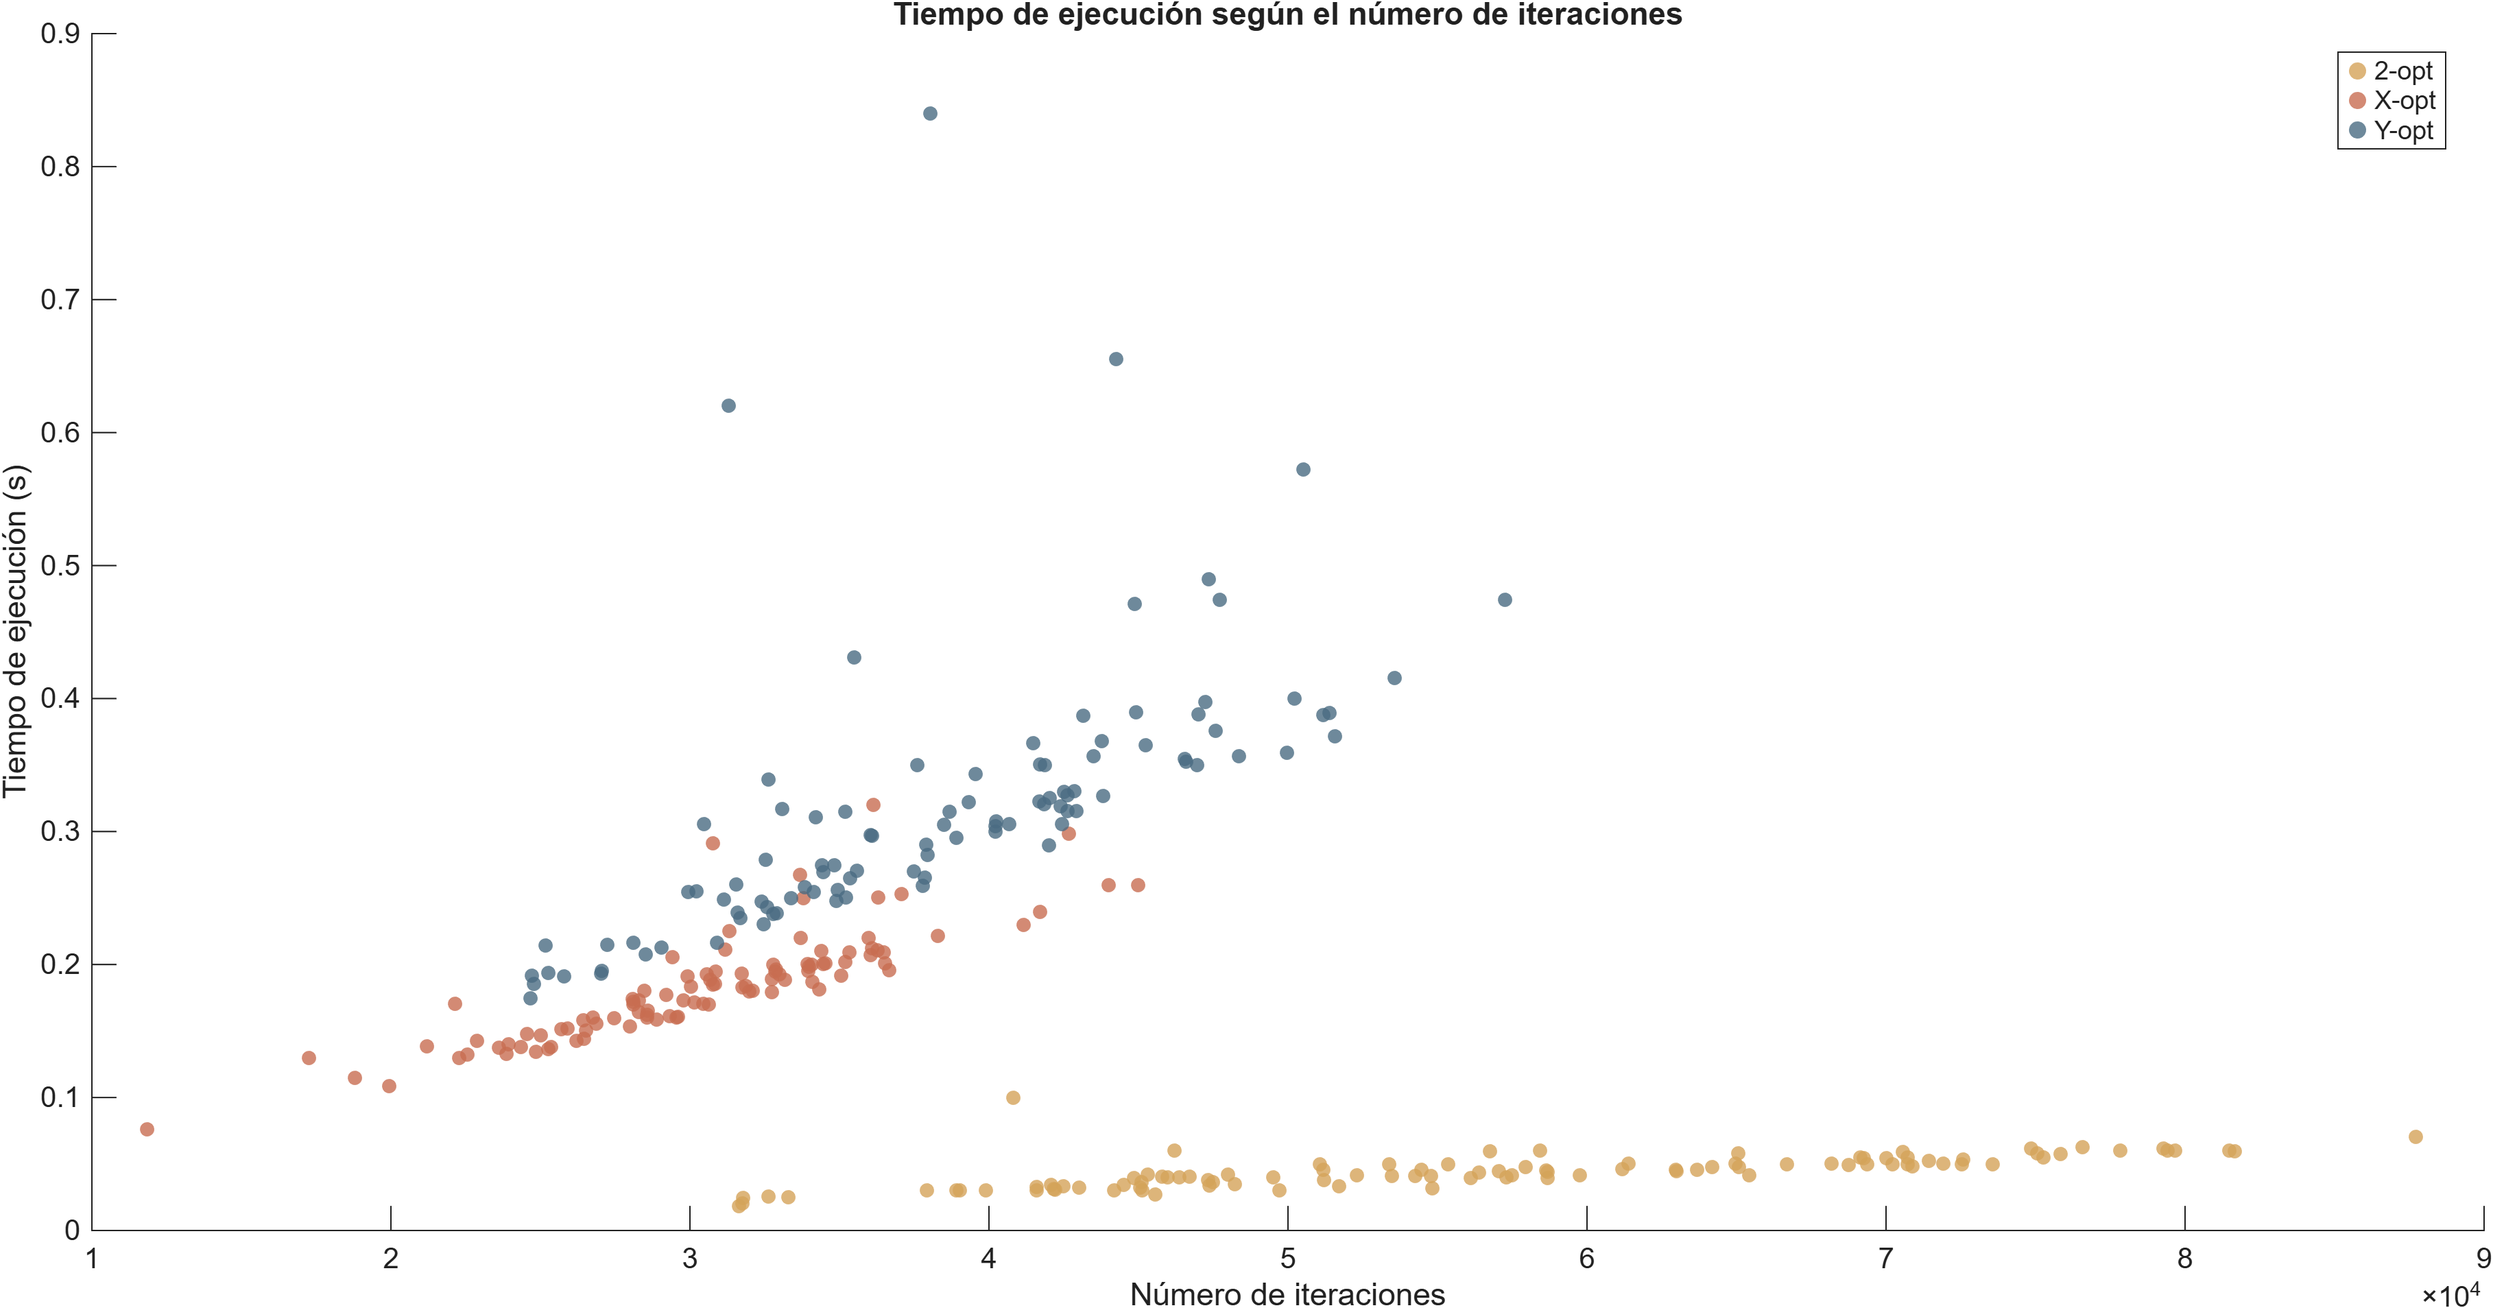
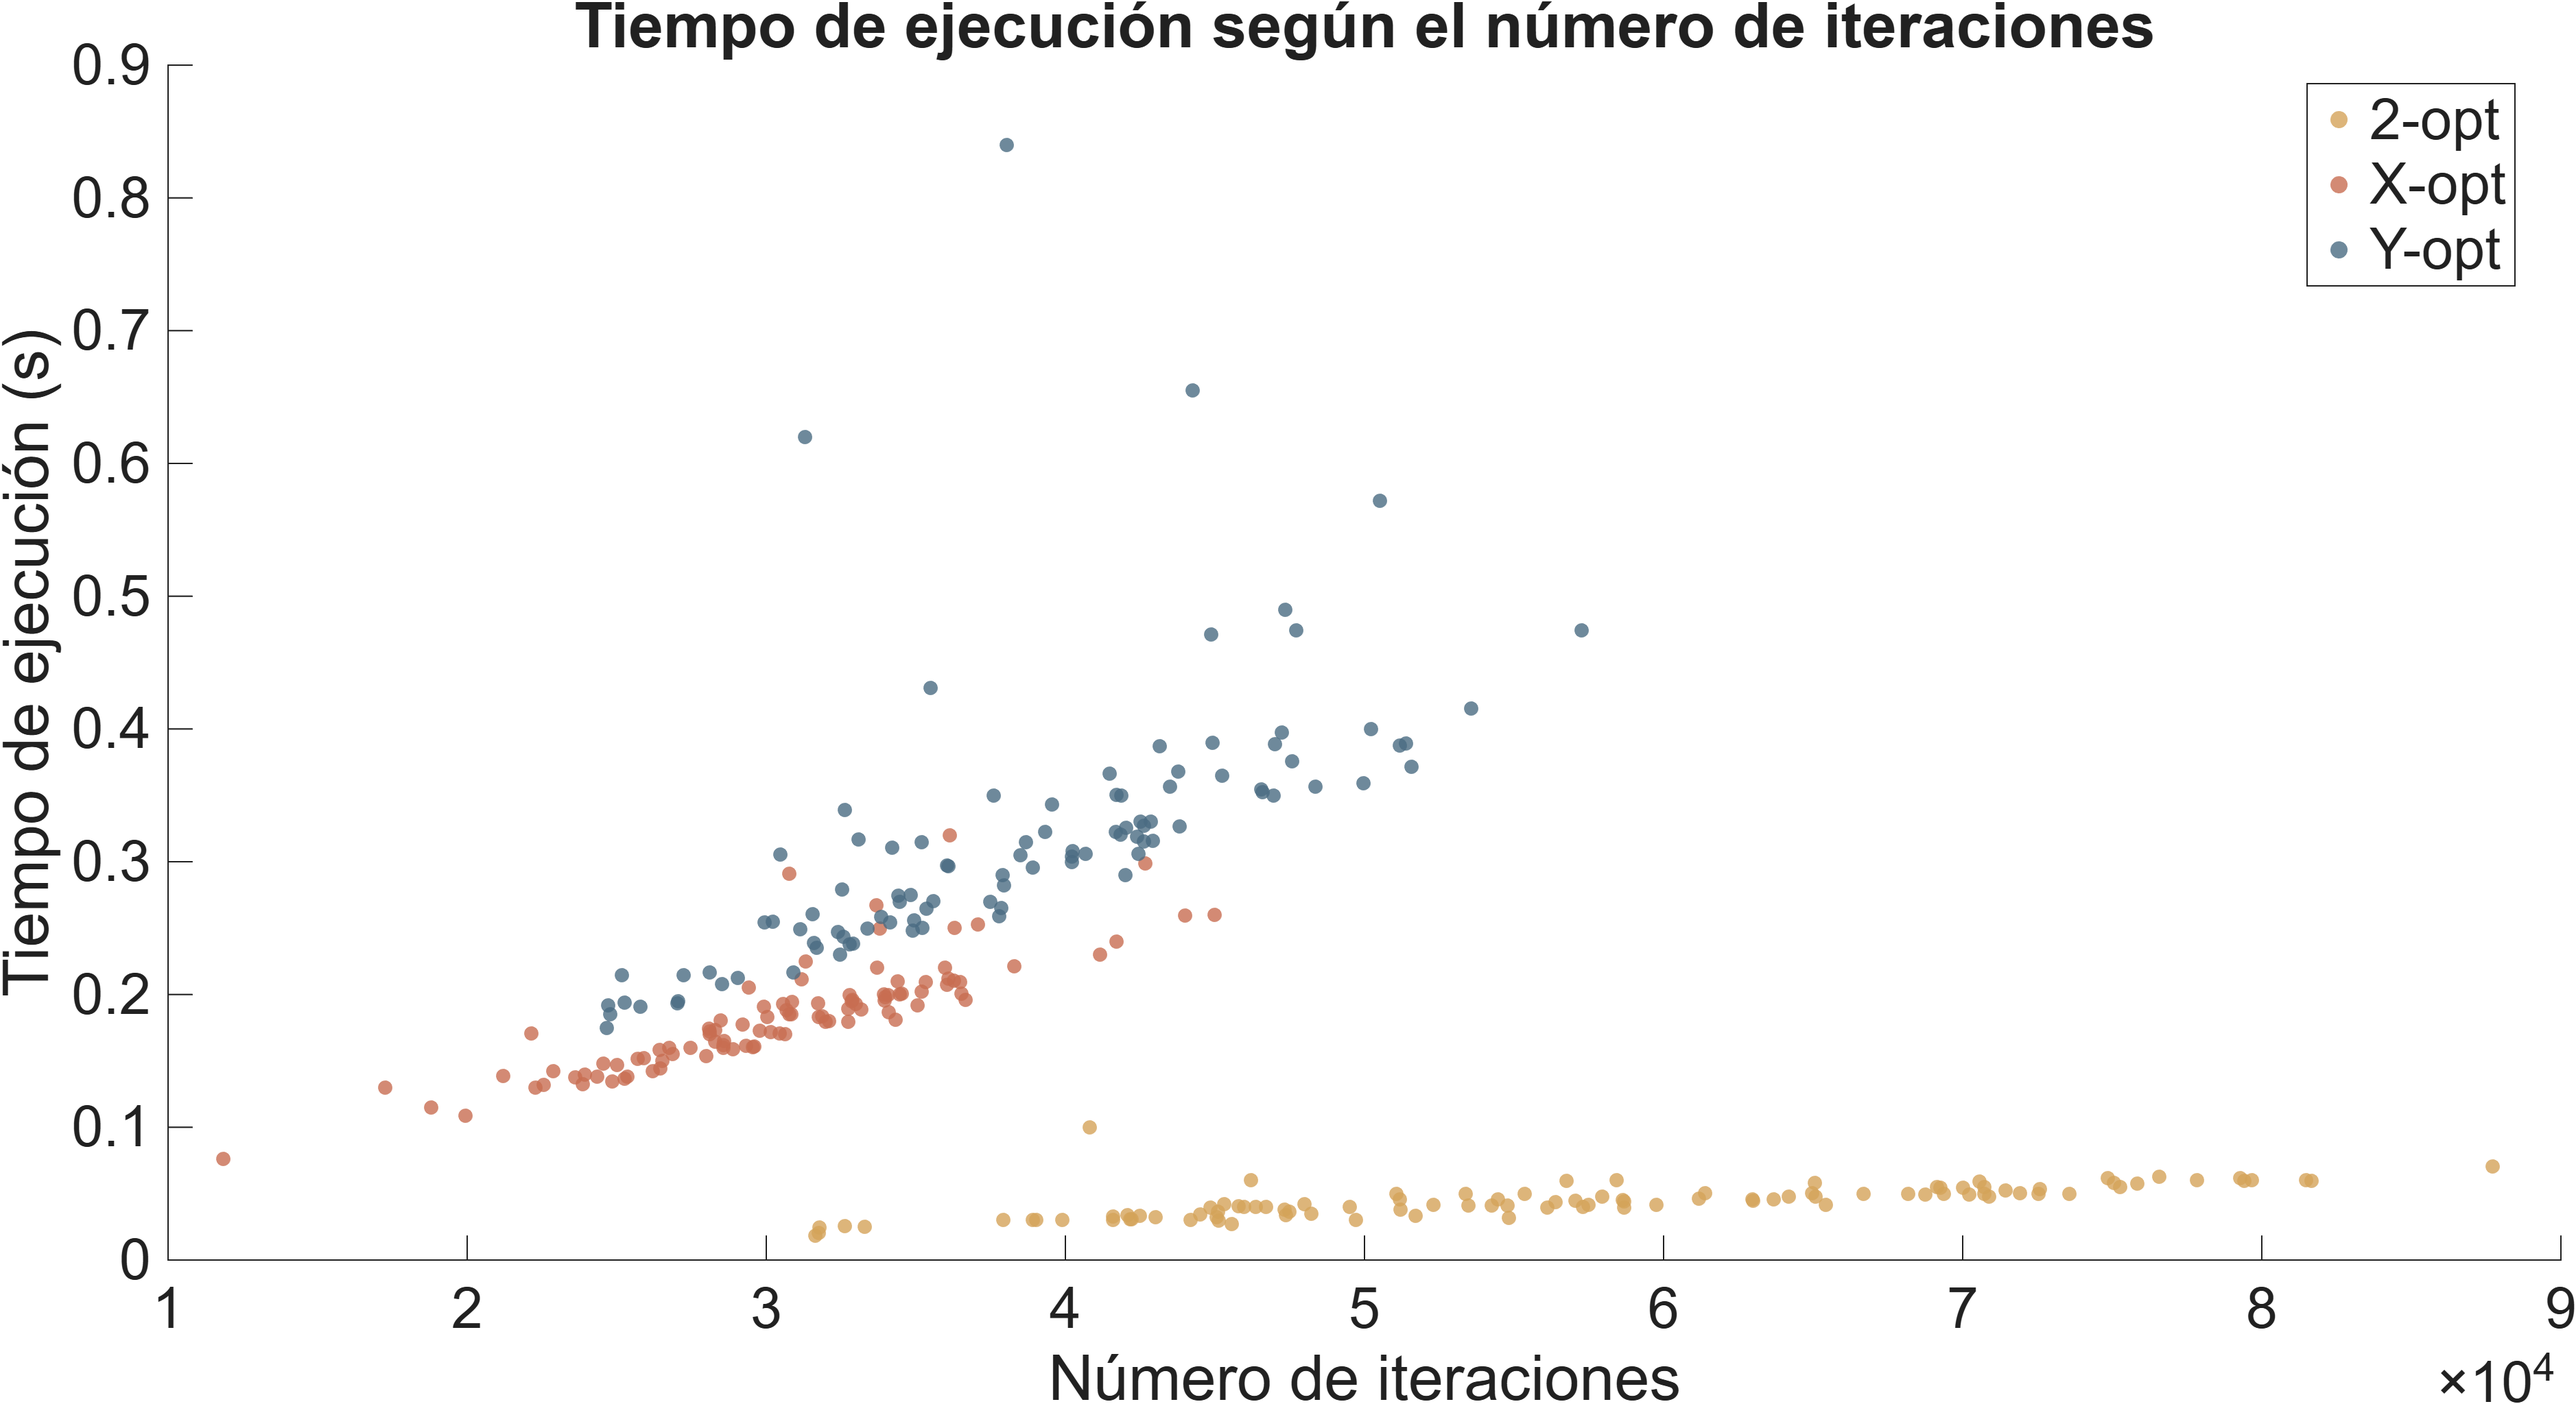
fix: se corrige tamaño de letra de los graficos

diff --git a/Proyecto/codigo/Primer_avance/graficos.m b/Proyecto/codigo/Primer_avance/graficos.m
@@ -26,6 +26,7 @@ figure
 geoscatter(lat, lon, 50, verde_salvia, 'filled')
 geobasemap streets-light
 geolimits(latlim, lonlim)
+set(gca, 'FontSize', 20)
 title('Localidades seleccionadas')
 exportgraphics(gcf, '../../figuras/localidades.png', 'Resolution', 300)
 
@@ -50,10 +51,11 @@ for a = 1:n_alg
     hold off
     geobasemap streets-light
     geolimits(latlim, lonlim)
+    set(gca, 'FontSize', 20)
     title(sprintf('%s: %.1f km', algoritmos(a), resultados.longitud_final(fila)))
 end
 
-sgtitle(sprintf('Ruta final obtenida desde la ruta inicial %d', id_ruta_mapa))
+sgtitle(sprintf('Ruta final obtenida desde la ruta inicial %d', id_ruta_mapa), 'FontSize', 20)
 drawnow; pause(3)
 exportgraphics(gcf, '../../figuras/mapa_rutas_finales.png', 'Resolution', 300)
 
@@ -67,10 +69,11 @@ for a = 1:n_alg
     plot(resultados.id_ruta(filas), resultados.longitud_final(filas), 'LineWidth', 2, 'Color', colores(a, :))
 end
 hold off
+set(gca, 'FontSize', 20)
 xlabel('Número de ruta inicial')
 ylabel('Longitud final (km)')
 title('Longitud final por algoritmo en cada ruta inicial')
-legend(algoritmos, 'Location', 'best')
+legend(algoritmos, 'Location', 'best', 'FontSize', 20)
 exportgraphics(gcf, '../../figuras/longitudes_finales.png', 'Resolution', 300)
 
 %% Longitud final media según el número de localidades
@@ -85,10 +88,11 @@ for a = 1:n_alg
     plot(rendimiento.n(filas), rendimiento.longitud_media(filas), '-s', 'LineWidth', 2, 'Color', colores(a, :), 'MarkerFaceColor', colores(a, :))
 end
 hold off
+set(gca, 'FontSize', 20)
 xlabel('Número de localidades (n)')
 ylabel('Longitud final media (km)')
 title('Longitud final media por algoritmo según el número de localidades')
-legend(algoritmos, 'Location', 'best')
+legend(algoritmos, 'Location', 'best', 'FontSize', 20)
 exportgraphics(gcf, '../../figuras/longitud_media_por_n.png', 'Resolution', 300)
 
 %% Tiempo de ejecución según el número de iteraciones
@@ -102,10 +106,11 @@ for a = 1:n_alg
     scatter(resultados.parejas_evaluadas(filas), resultados.tiempo_ejecucion(filas), 25, colores(a, :), 'filled', 'MarkerFaceAlpha', 0.8)
 end
 hold off
+set(gca, 'FontSize', 20)
 xlabel('Número de iteraciones')
 ylabel('Tiempo de ejecución (s)')
 title('Tiempo de ejecución según el número de iteraciones')
-legend(algoritmos, 'Location', 'best')
+legend(algoritmos, 'Location', 'best', 'FontSize', 20)
 exportgraphics(gcf, '../../figuras/iteraciones_vs_tiempo.png', 'Resolution', 300)
 
 %% Tiempo promedio por iteración
@@ -124,6 +129,7 @@ b = bar(tiempo_por_iteracion);
 b.FaceColor = 'flat';
 b.CData = colores;
 xticklabels(algoritmos)
+set(gca, 'FontSize', 20)
 ylabel('Tiempo por iteración (μs)')
 title('Tiempo promedio por iteración de cada algoritmo')
 exportgraphics(gcf, '../../figuras/tiempo_por_iteracion.png', 'Resolution', 300)
